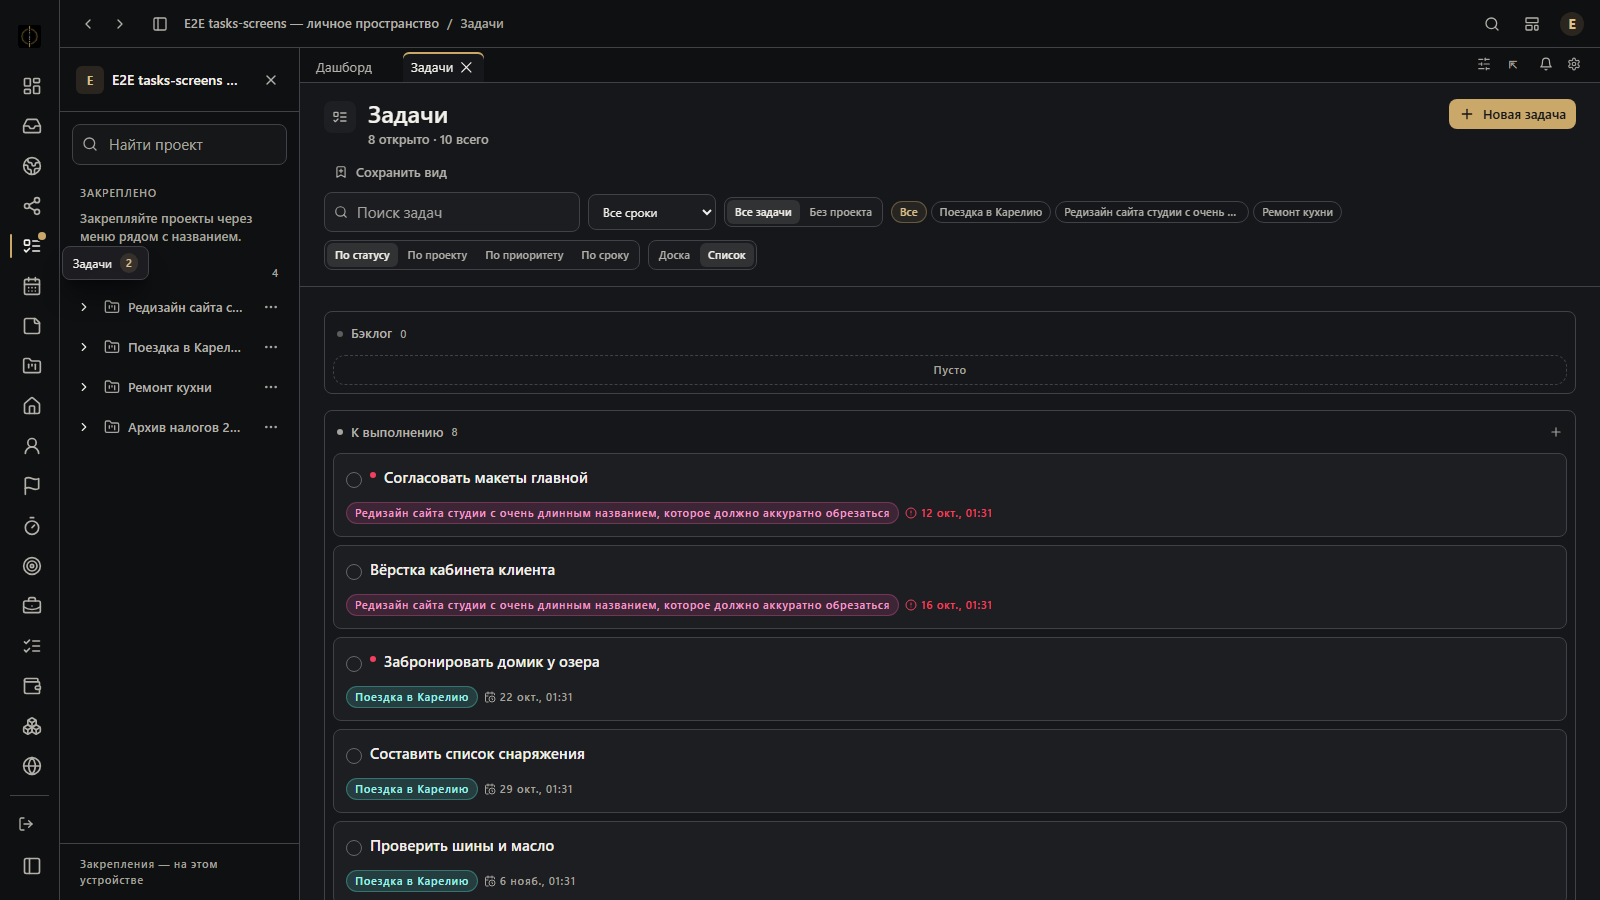
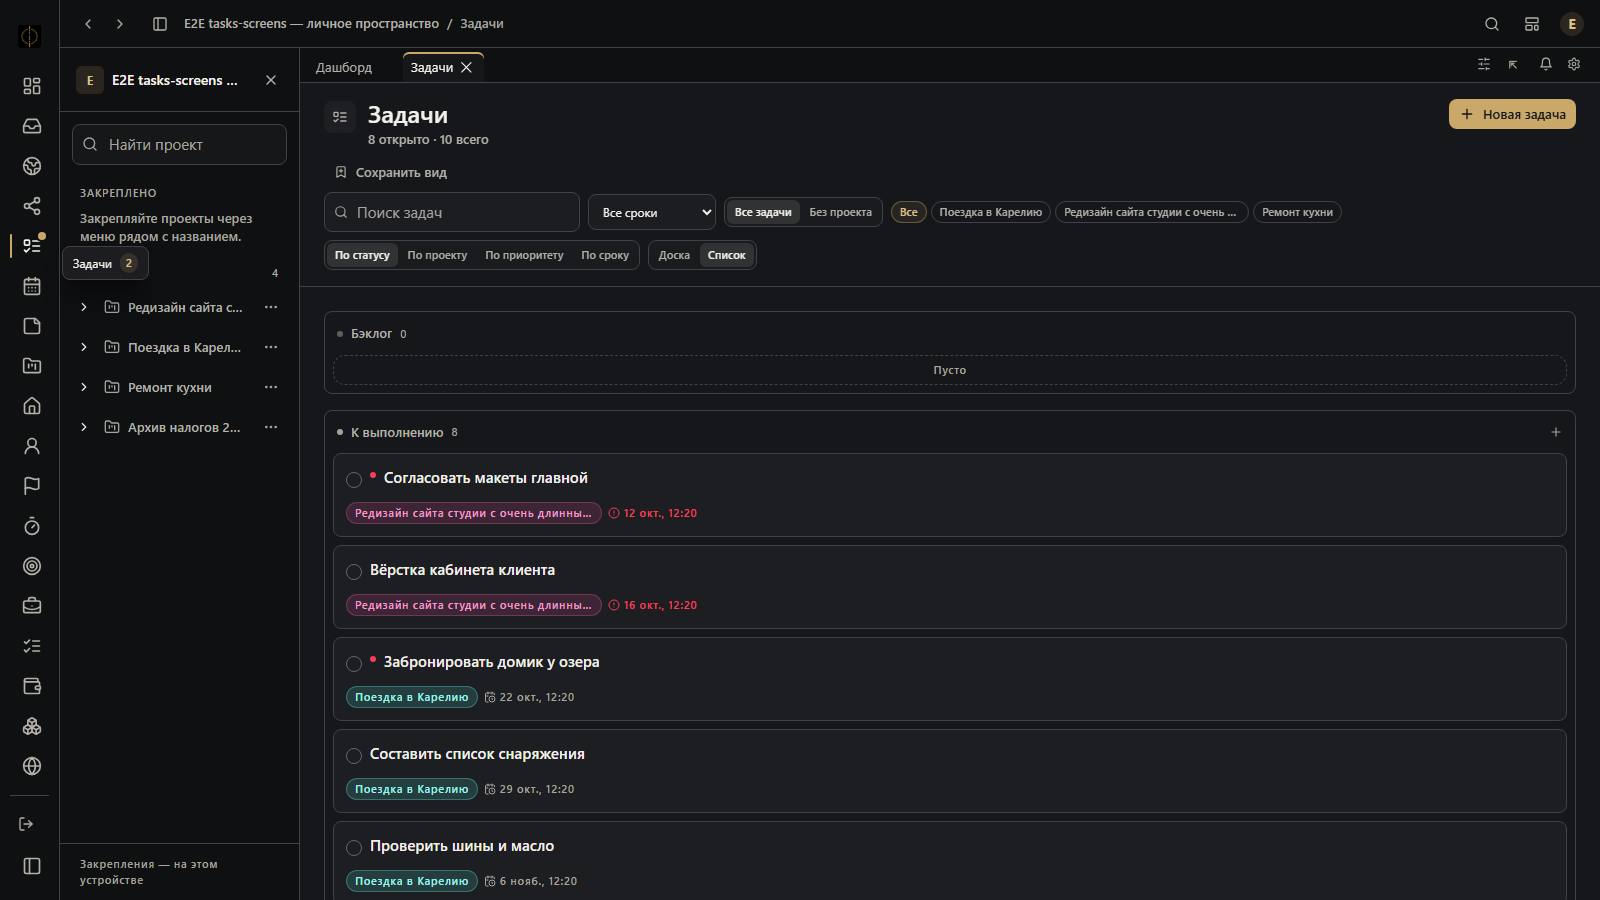
test(redesign): make narrow task/calendar evidence prove the state in the file name; fix task toolbar overflow and project tag blob at 390px

Changed region(s): [[0.375, 0.6533, 0.5938, 0.6844], [0.375, 0.56, 0.5938, 0.5911]]

diff --git a/apps/web/panels/TasksPanel.tsx b/apps/web/panels/TasksPanel.tsx
@@ -21,7 +21,7 @@ import {
   useToast
 } from "@orion/ui";
 import { motion, useReducedMotion } from "framer-motion";
-import { ListTodo, Plus, Search, TriangleAlert, X } from "lucide-react";
+import { ChevronDown, ListTodo, Plus, Search, TriangleAlert, X } from "lucide-react";
 import { useCallback, useEffect, useMemo, useRef, useState } from "react";
 import { useViewState } from "../lib/use-view-state";
 import { tasksViewStateSchema } from "@orion/shared-types";
@@ -66,6 +66,7 @@ const NO_PROJECT = "__none__";
  * not part of any project and so never show up on a project's own screen.
  */
 type TaskScope = "all" | "loose";
+const GROUP_LABEL: Record<GroupBy, string> = { status: "По статусу", project: "По проекту", priority: "По приоритету", due: "По сроку" };
 const SCOPE_KEY = "orion.tasks.scope";
 const VIEW_KEY = "orion.tasks.view";
 
@@ -435,6 +436,33 @@ export function TasksPanel(): React.ReactElement {
   const total = tasks?.length ?? 0;
   const openCount = (tasks ?? []).filter((t) => !isTaskClosed(t.status)).length;
 
+  const groupViewControls = (
+    <>
+      <SegmentedControl<GroupBy>
+            value={groupBy}
+            onChange={setGroupBy}
+            size="sm"
+            options={[
+              { value: "status", label: "По статусу" },
+              { value: "project", label: "По проекту" },
+              { value: "priority", label: "По приоритету" },
+              { value: "due", label: "По сроку" }
+            ]}
+          />
+          {viewPlugins.length > 0 ? (
+            <SegmentedControl<BoardView>
+              value={activeView}
+              onChange={(next) => {
+                viewTouched.current = true;
+                setView(next);
+              }}
+              size="sm"
+              options={[...viewPlugins.map((c) => ({ value: c.meta!.viewId, label: c.meta!.label })), { value: "list", label: "Список" }]}
+            />
+          ) : null}
+    </>
+  );
+
   return (
     <PanelShell>
       <PanelHeader
@@ -465,7 +493,7 @@ export function TasksPanel(): React.ReactElement {
             }
           }}
         />}
-        <div className={cx("ml-auto flex flex-wrap items-center gap-2", editing && !splitDetail && "hidden")}>
+        <div className={cx("ml-auto flex min-w-0 max-w-full flex-wrap items-center gap-2", editing && !splitDetail && "hidden")}>
           <div className="relative sm:w-64">
             <Search className="pointer-events-none absolute left-2.5 top-1/2 h-3.5 w-3.5 -translate-y-1/2 text-subtle-foreground" />
             <Input value={query} onChange={(e) => setQuery(e.target.value)} placeholder="Поиск задач" className="pl-8" />
@@ -521,28 +549,15 @@ export function TasksPanel(): React.ReactElement {
               ))}
             </div>
           ) : null}
-          <SegmentedControl<GroupBy>
-            value={groupBy}
-            onChange={setGroupBy}
-            size="sm"
-            options={[
-              { value: "status", label: "По статусу" },
-              { value: "project", label: "По проекту" },
-              { value: "priority", label: "По приоритету" },
-              { value: "due", label: "По сроку" }
-            ]}
-          />
-          {viewPlugins.length > 0 ? (
-            <SegmentedControl<BoardView>
-              value={activeView}
-              onChange={(next) => {
-                viewTouched.current = true;
-                setView(next);
-              }}
-              size="sm"
-              options={[...viewPlugins.map((c) => ({ value: c.meta!.viewId, label: c.meta!.label })), { value: "list", label: "Список" }]}
-            />
-          ) : null}
+          {/* Wide: grouping and view sit inline. Narrow: one disclosure instead of a row that runs off the edge. */}
+          <div className="hidden flex-wrap items-center gap-2 sm:flex">{groupViewControls}</div>
+          <details className="group w-full sm:hidden">
+            <summary className="flex min-h-9 cursor-pointer list-none items-center gap-2 rounded-lg border border-border px-2.5 text-label text-muted-foreground hover:text-foreground focus-visible:outline-none focus-visible:ring-2 focus-visible:ring-accent/60 [&::-webkit-details-marker]:hidden">
+              <span className="flex-1">Группировка и вид · {GROUP_LABEL[groupBy]}{viewPlugins.length > 0 ? ` · ${activeViewMeta?.label ?? "Список"}` : ""}</span>
+              <ChevronDown className="h-3.5 w-3.5 transition-transform group-open:rotate-180" aria-hidden />
+            </summary>
+            <div className="mt-2 flex flex-wrap items-center gap-2">{groupViewControls}</div>
+          </details>
           {teamOn ? (
             <FilterChip
               active={onlyMine}

diff --git a/e2e/calendar-screens.spec.ts b/e2e/calendar-screens.spec.ts
@@ -37,22 +37,40 @@ test("calendar screens: month, week, agenda, narrow", async ({ page, request }) 
   await calendar.getByRole("tab", { name: "Список", exact: true }).click();
   await shot(page, "agenda-1600");
   await calendar.getByRole("tab", { name: "Месяц", exact: true }).click();
+  await page.waitForTimeout(800); // the view is saved with a short debounce
   await page.setViewportSize({ width: 390, height: 844 });
   await page.goto(`/dashboard?workspaceId=${account.workspaceId}`);
   await page.getByRole("button", { name: "Открыть меню", exact: true }).click();
   await page.getByRole("navigation", { name: "Разделы" }).getByRole("button", { name: "Календарь", exact: true }).click();
-  await expect(page.getByRole("group", { name: "Календарь", exact: true })).toBeVisible();
-  await shot(page, "month-390");
-  // Sources stay reachable behind the disclosure and still toggle.
-  const disclosure = page.locator("summary").filter({ hasText: "Источники" });
-  if (await disclosure.count()) {
-    await disclosure.click();
-    const tasksChip = page.getByRole("button", { name: "Задачи", exact: true }).filter({ has: page.locator("span[aria-hidden]") }).first();
-    await expect(tasksChip).toBeVisible();
-    await disclosure.click();
-  }
-  await page.getByRole("group", { name: "Календарь", exact: true }).getByRole("tab", { name: "Список", exact: true }).click();
+  const narrow = page.getByRole("group", { name: "Календарь", exact: true });
+  await expect(narrow).toBeVisible();
+  const tab = (name: string) => narrow.getByRole("tab", { name, exact: true });
+
+  // Sources: the disclosure is mandatory at 390 px and every toggle really filters the agenda.
+  await tab("Список").click();
+  await expect(tab("Список")).toHaveAttribute("aria-selected", "true");
+  await expect(narrow.getByText("Вёрстка кабинета клиента")).toBeVisible();
+  const sources = page.locator("details").filter({ has: page.locator("summary", { hasText: "Источники" }) });
+  await sources.locator("summary").click();
+  const tasksChip = sources.getByRole("button", { name: "Задачи", exact: true });
+  await expect(tasksChip).toHaveAttribute("aria-pressed", "true");
+  await tasksChip.click();
+  await expect(tasksChip).toHaveAttribute("aria-pressed", "false");
+  await expect(narrow.getByText("Вёрстка кабинета клиента")).toHaveCount(0);
+  await expect(narrow.getByText("Планёрка команды")).toBeVisible(); // events are another source and stay
+  await tasksChip.click();
+  await expect(tasksChip).toHaveAttribute("aria-pressed", "true");
+  await expect(narrow.getByText("Вёрстка кабинета клиента")).toBeVisible();
+  await sources.locator("summary").click();
   await shot(page, "agenda-390");
+
+  // The month shot shows the month: tab selected and the weekday header of the grid present.
+  await tab("Месяц").click();
+  await expect(tab("Месяц")).toHaveAttribute("aria-selected", "true");
+  await expect(narrow.getByText("Октябрь 2026")).toBeVisible();
+  await expect(narrow.getByText("Пн", { exact: true })).toBeVisible();
+  await expect(narrow.getByText("Ближайшее")).toHaveCount(0);
+  await shot(page, "month-390");
 });
 
 test("calendar screens: empty workspace", async ({ page, request }) => {

diff --git a/e2e/tasks-screens.spec.ts b/e2e/tasks-screens.spec.ts
@@ -32,7 +32,17 @@ test("tasks screens: list, detail, narrow, empty", async ({ page, request }) => 
   await page.goto(`/dashboard?workspaceId=${account.workspaceId}`);
   await page.getByRole("button", { name: "Открыть меню", exact: true }).click();
   await page.getByRole("navigation", { name: "Разделы" }).getByRole("button", { name: /^Задачи/ }).click();
+  // The open task is restored after the reload (stage 20) and replaces the list: go back to the list explicitly.
+  const detail = page.getByRole("region", { name: "Детали задачи", exact: true });
+  await page.waitForTimeout(1500);
+  if (await detail.isVisible()) await page.getByRole("button", { name: "Задачи", exact: true }).click();
+  await expect(detail).toHaveCount(0);
+  await expect(page.getByRole("textbox", { name: "Поиск задач", exact: true }).or(page.getByPlaceholder("Поиск задач"))).toBeVisible();
   await expect(page.getByText("Забронировать домик у озера").first()).toBeVisible();
+  expect(await page.evaluate(() => document.documentElement.scrollWidth <= window.innerWidth), "no horizontal page overflow at 390 px").toBe(true);
+  const toolbar = page.getByRole("banner").or(page.locator("header")).locator("summary", { hasText: "Группировка и вид" });
+  const box = await toolbar.boundingBox();
+  expect(box && box.x >= 0 && box.x + box.width <= 390, "the grouping disclosure fits the 390 px viewport").toBe(true);
   await shot(page, "list-390");
 });
 

diff --git a/apps/web/panels/tasks/task-card.tsx b/apps/web/panels/tasks/task-card.tsx
@@ -150,7 +150,7 @@ export function TaskCard({
          */}
         {task.status === "in_progress" ? <StatusMark status="running" label="в работе" /> : null}
         {canceled ? <StatusMark status="cancelled" label="отменена" /> : null}
-        {task.projectTag ? <span style={projectColor(task.projectTag)} className="rounded-full border px-2 py-0.5 text-micro font-medium">{task.projectTag}</span> : null}
+        {task.projectTag ? <span style={projectColor(task.projectTag)} title={task.projectTag} className="block max-w-full truncate rounded-full border px-2 py-0.5 text-micro font-medium sm:max-w-[16rem]">{task.projectTag}</span> : null}
         {task.dueAt ? (
           <span
             className={cx("inline-flex items-center gap-1 text-micro", overdue ? "text-destructive" : "text-subtle-foreground")}
